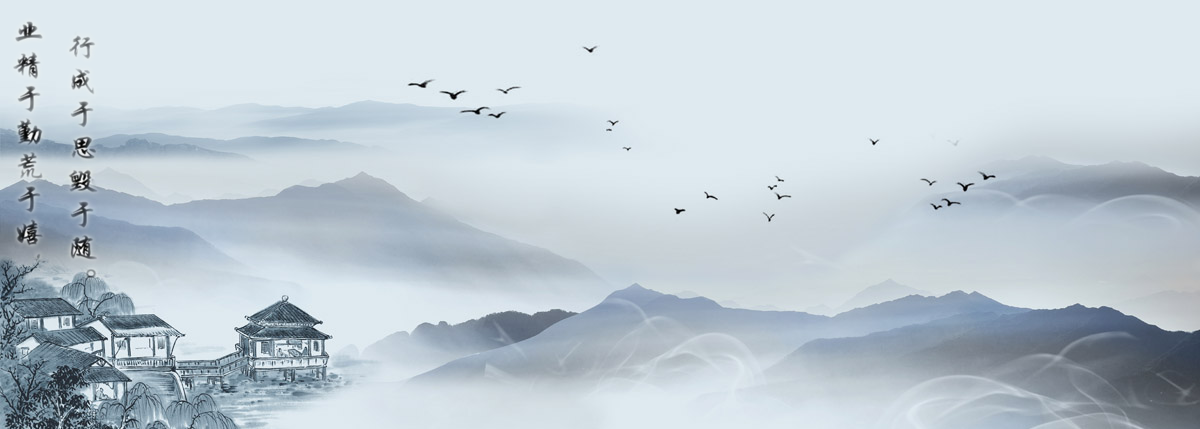
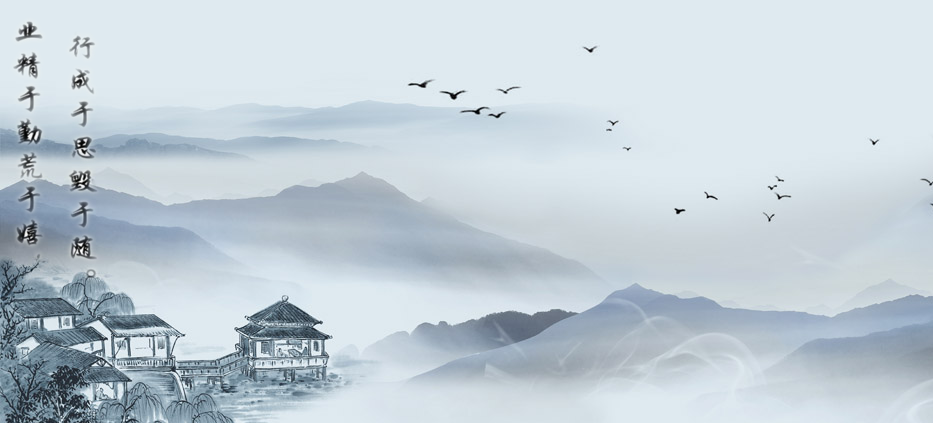
Update sidebar background image with opacity things

diff --git a/css/main.css b/css/main.css
@@ -104,7 +104,6 @@ a:hover {
   display: inline-block;
   text-align: center;
   line-height: 25px;
-  opacity: 1;
 }
 
 .tagline {
@@ -115,7 +114,6 @@ a:hover {
   margin-top: 0.5em;
   margin-bottom: 3em;
   display: block;
-  opacity: 1;
 }
 
 .motto {
@@ -126,7 +124,6 @@ a:hover {
   margin-bottom: 1.25em;
   text-align: center;
   display: block;
-  opacity: 1;
 }
 
 .sidebar-info {
@@ -140,7 +137,6 @@ a:hover {
   list-style-type: none;
   text-align: center;
   line-height: 3em;
-  opacity: 1;
 }
 
 .sidebar-info li a, .footer a {
@@ -156,7 +152,6 @@ a:hover {
   overflow: hidden;
   float: center;
   text-align: center;
-  opacity: 1;
 }
 
 /*****************************************************************************/
@@ -306,6 +301,7 @@ a:hover {
 }
 
 .sidebar {
+  position: absolute;
   float: left;
   width: 14%;
   padding-left: 11em;
@@ -315,7 +311,6 @@ a:hover {
   background-repeat: no-repeat;
   background-size: cover;
   background-color: transparent;
-  opacity: 0.9;
 }
 
 .content {
